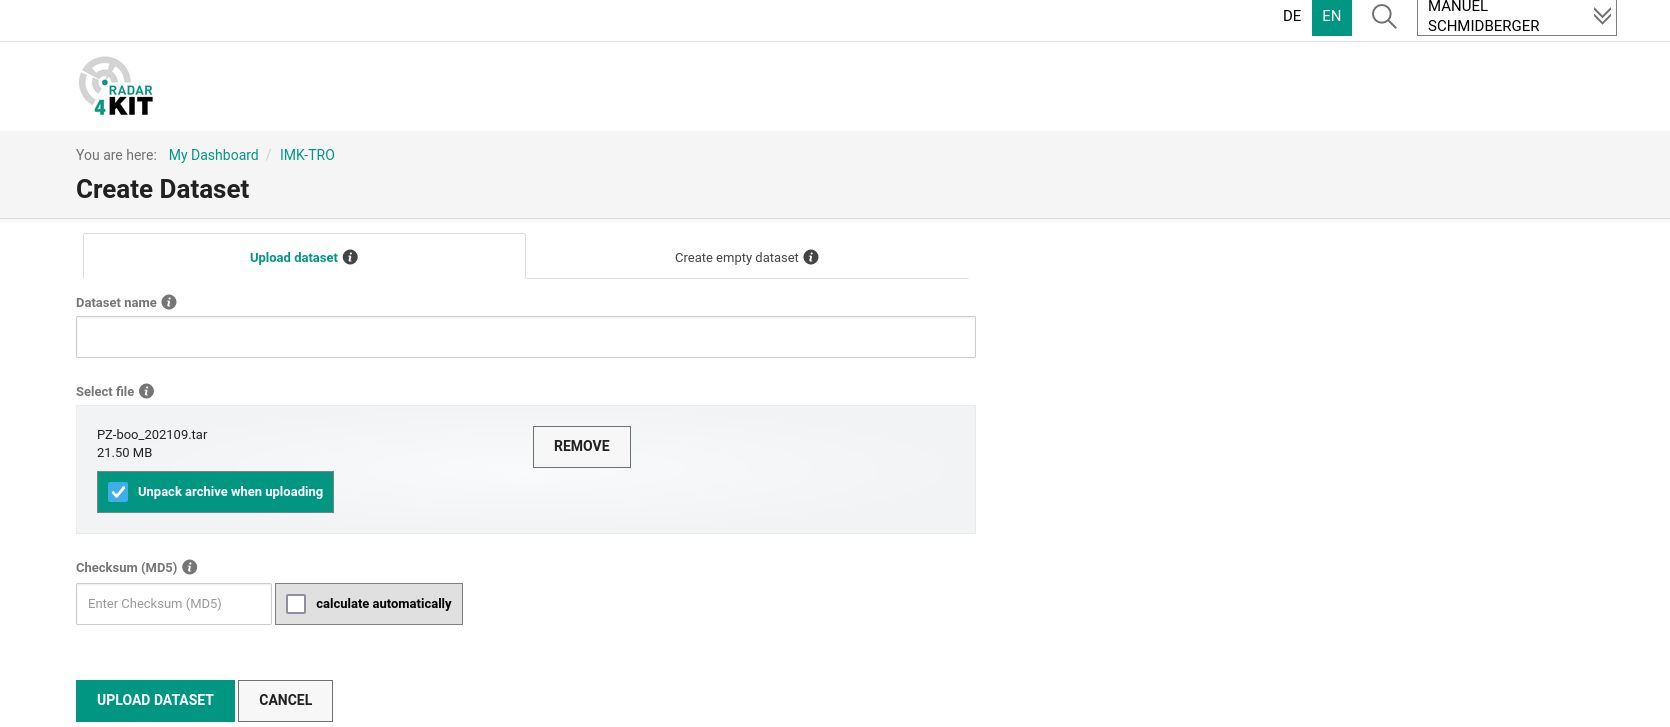
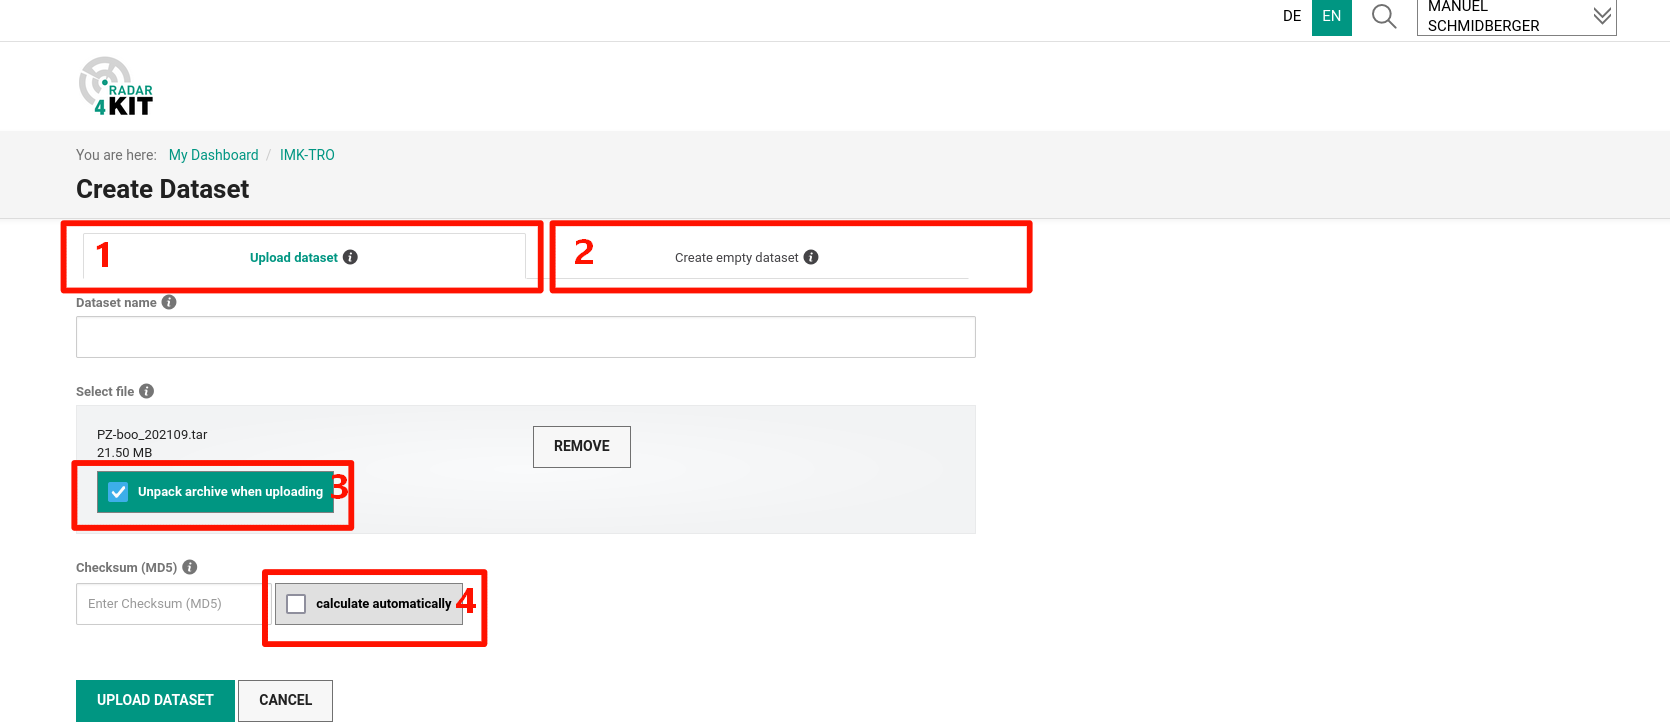
add content

Changed region(s): [[0.0311, 0.3026, 0.6228, 0.4237], [0.0311, 0.6355, 0.3114, 0.9078]]

diff --git a/docs/source/Content/datapackage.rst b/docs/source/Content/datapackage.rst
@@ -4,7 +4,7 @@ Create a data package
 So, how do you create a data package once you get your authorization as subcurator? Since you're authorized as subcurator you can find the button "create dataset" on the left side of the window. Click that button for the next step.
 
 .. figure:: /images/radar4kit_create_dataset_1.png
-    :scale: 100 %
+    :width: 100 %
     
     *Figure 1: Create dataset*
 
@@ -19,6 +19,26 @@ An empty dataset might be useful if you wanna reserve a DOI for a later time, bu
     Your data should be formatted in a proper way. Note that everyone who will use your data in future needs as many information as you can give for reusing the data. Therefore you should define your data with proper metadata following well-known conventions (e.g. cf convenctions etc.), a common file format (e.g. .nc, .h5, .csv), a proper naming (e.g. ``<modelname/campaign>_<device/sensor/version>_<variable>_<date/timerange>.<datatyp>``) and some standards following the `FAIR Data Principles <https://www.go-fair.org/fair-principles/>`_. The more information you can share the more is the increases of value of your data set!
 
 .. figure:: /images/radar4kit_create_dataset_2.png
-    :scale: 100 %
+    :width: 100 %
     
     *Figure 2: Upload dataset*
+
+
+You can choose to optionally unpack the archive-files during the upload (Figure 2.3), the file directory structure remains unchanged. You can add individual files to the dataset later on while the dataset remains in status "pending". This might be useful, if you need to change the dataset afterwards (e.g. after a reviewing process). 
+
+You can also choose the checksum option (Figure 2.4). Checksum is a MD5 hash value, representing the number of bits in a transmission message and is used to detect high-level erros within data transmission. Checksum is basically used to detect data corruption errors and verify overall data integrity. So if yo haven't calculated a checksum yet, you can chose "calculate automatically" for making sure, your dataset has not been accidentally altered or corrupted during the publishing process. 
+
+.. DANGER:: Big file sizes
+    If you plan to upload several GBs of data, calculating the checksum via browser is NOT recommended since it will take a lot of time!
+
+.. figure:: /images/radar4kit_edit_metadata_1.png
+    :width: 100 %
+
+    *Figure 3: Dataset overview*
+
+After uploading the files you get to the next screen. You can now browse your repository for metadata, content and technical metadata (Figure 3.1). The "RADAR Metadata" is the important thing to fill out (see next section). Any information about the data will be covered here later. The tab "Content" allows you to browse your uploeaded dataset (Figure 4). If you've uploaded an archive and if you have not hit the "automatically unpack" box while uploading the file, you might see only a folder here. Clicking the folder will unpack the archive and you can see all files inside your archive. You can add files here to the repository later while status is pending by clicking the button at the top right corner (Figure 4). The tab "Technical Metadata" is just an information about the creater of the dataset and who was the last editing person. 
+
+.. figure:: /images/radar4kit_edit_metadata_2.png
+    :width: 100 %
+
+    *Figure 4: Content of dataset*

diff --git a/docs/source/index.rst b/docs/source/index.rst
@@ -1,5 +1,5 @@
-Welcome to Lumache's documentation!
-===================================
+Welcome to the Radar4KIT documentation wiki of the IMK
+======================================================
 
 This is a short and basic introduction into the `RADAR4KIT <https://radar.kit.edu>`_, Research Data Repository for `KIT <https://kit.edu>`_.
 If you find any mistakes in this guide or if you have any suggestions for improvement or something important is missing, please
